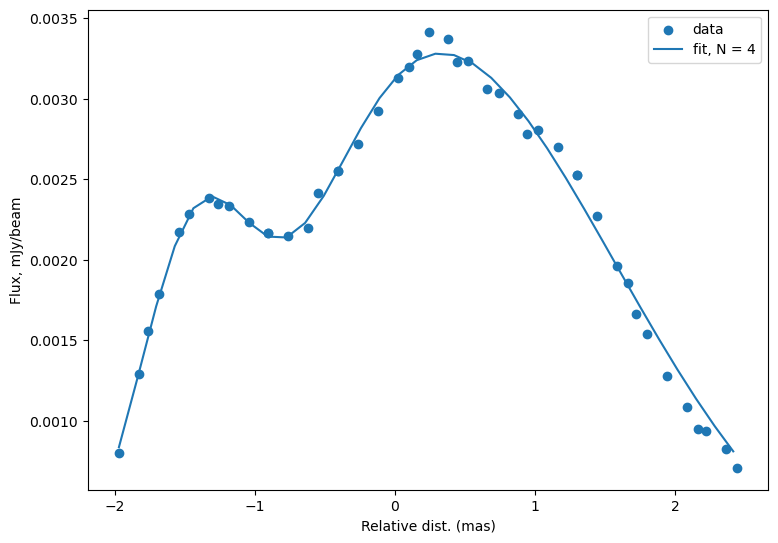
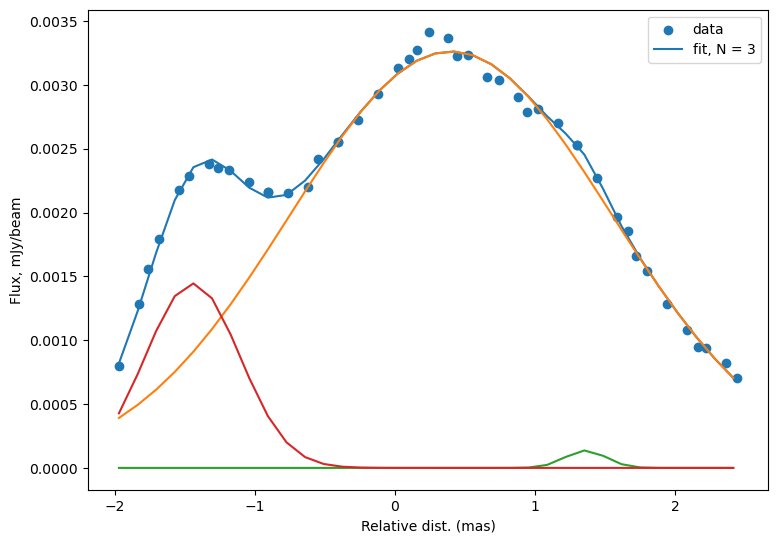
Fix some bugs, enhanced profile plotting

diff --git a/profile.py b/profile.py
@@ -5,6 +5,10 @@ import matplotlib.pyplot as plt
 from math import copysign
 
 
+def gausssian(x, a, x0, sigma): 
+    return a*np.exp(-(x-x0)**2/(2*sigma**2)) 
+
+
 class Profile():
     """
     Class that represents single jet tranverse profile.
@@ -15,7 +19,7 @@ class Profile():
         self._data_dict = {}
         self._threshold = {}
         self._rel_dist = np.array([copysign(np.hypot(x-self._cp[0], y-self._cp[1]), y-self._cp[1]) for x, y in coords])
-        self._fitspace = np.linspace(np.min(self._rel_dist), np.max(self._rel_dist), 1000)
+        self._fitspace = np.linspace(np.min(self._rel_dist), np.max(self._rel_dist), 10000)
         self._fit = None
         self._fitparam = {}
 
@@ -117,9 +121,9 @@ class Profile():
     def _fit_single_gauss(self, stk=None):
         stk = self._stk_checker(stk)
 
-        def gausssian(x, a, x0, sigma): 
-            return a*np.exp(-(x-x0)**2/(2*sigma**2)) 
-        popt, pcov = curve_fit(gausssian, self._rel_dist, self._data_dict[stk])     
+        popt, pcov = curve_fit(gausssian, 
+                               self._rel_dist[self._data_dict[stk]>self._threshold[stk]], 
+                               self._data_dict[stk][self._data_dict[stk]>self._threshold[stk]])     
         gausssian_fit = gausssian(self._fitspace, popt[0], popt[1], popt[2])
         print()
         print(f'Gaussian fit paremeters for stokes {stk}:')
@@ -135,9 +139,9 @@ class Profile():
         stk = self._stk_checker(stk)
 
         def gausssian_N(x, a, x0, sigma, N): 
-            res = 0
+            res = 0.
             for a_, x0_, sigma_ in zip(a, x0, sigma):
-                res += a_*np.exp(-(x-x0_)**2/(2*sigma_**2))
+                res += abs(a_)*np.exp(-(x-x0_)**2/(2*sigma_**2))
             return res
 
         def wrapper_gausssian_N(x, N, *args):
@@ -148,21 +152,31 @@ class Profile():
         cond = np.inf
         popt2mem = None
         while N < 5:
-            params_0 = np.array([1 for _ in range(N)]+[0 for i in range(N)]+[1 for _ in range(N)])
+            ma = np.max(self._data_dict[stk][self._data_dict[stk]>self._threshold[stk]])
+            diff = np.max(self._rel_dist[self._data_dict[stk]>self._threshold[stk]]) - \
+                   np.min(self._rel_dist[self._data_dict[stk]>self._threshold[stk]])
+            basex0 = diff/(N+1)
+            params_0 = np.array([ma/2 for _ in range(N)]+ \
+                                [-diff/2+basex0*(i+1) for i in range(N)]+ \
+                                [basex0/2 for _ in range(N)])
             try: 
                 popt, pcov = curve_fit(lambda x, *params_0: wrapper_gausssian_N(x, N, params_0), \
-                        self._rel_dist, self._data_dict[stk], p0=params_0, method='trf')
+                                       self._rel_dist[self._data_dict[stk]>self._threshold[stk]], 
+                                       self._data_dict[stk][self._data_dict[stk]>self._threshold[stk]], 
+                                       p0=params_0, method='trf')
             except RuntimeError:
                 break
-            cond_ = np.linalg.cond(pcov)
-            expected = wrapper_gausssian_N(self._rel_dist, N-1, popt)
-            r = self._data_dict[stk] - expected
-            chisq = np.sum((r/np.std(self._data_dict[stk]))**2)
+            expected = wrapper_gausssian_N(self._rel_dist[self._data_dict[stk]>self._threshold[stk]], N, popt)
+            # r = abs(self._data_dict[stk][self._data_dict[stk]>self._threshold[stk]] - expected)
+            # chisq = np.sum((r/np.std(self._data_dict[stk][self._data_dict[stk]>self._threshold[stk]]))**2)/N
+            obs = self._data_dict[stk][self._data_dict[stk]>self._threshold[stk]][expected>0.]
+            expected = expected[expected>0.]
+            chisq = np.sum((obs-expected)**2/expected)/N
             if chisq is None:
                 break
-            if chisq/N < cond:
+            if chisq < cond and np.max(wrapper_gausssian_N(self._fitspace, N, popt)) < ma*1.1:
                 popt2mem = popt
-                cond = chisq/N
+                cond = chisq
             else:
                 break
             N += 1
@@ -221,6 +235,14 @@ class Profile():
             ax.plot(self._fitspace[gausssian_fit>self._threshold[stk]], 
                     gausssian_fit[gausssian_fit>self._threshold[stk]], 
                     color=color, label=f'fit, N = {self._fitparam["N"]}')
+            if self._fitparam["N"] > 1:
+                N = self._fitparam["N"]
+                args = self._fitparam["popt"]
+                a, b, c = list(args[:N]), list(args[N:2*N]), list(args[2*N:3*N])
+                for a_, x0, sigma in zip(a, b, c):
+                    ax.plot(self._fitspace[gausssian_fit>self._threshold[stk]], 
+                            gausssian(self._fitspace[gausssian_fit>self._threshold[stk]], abs(a_), x0, sigma), 
+                            label=None)
                     
         ax.legend(loc="best")
         if outfile is not None:
